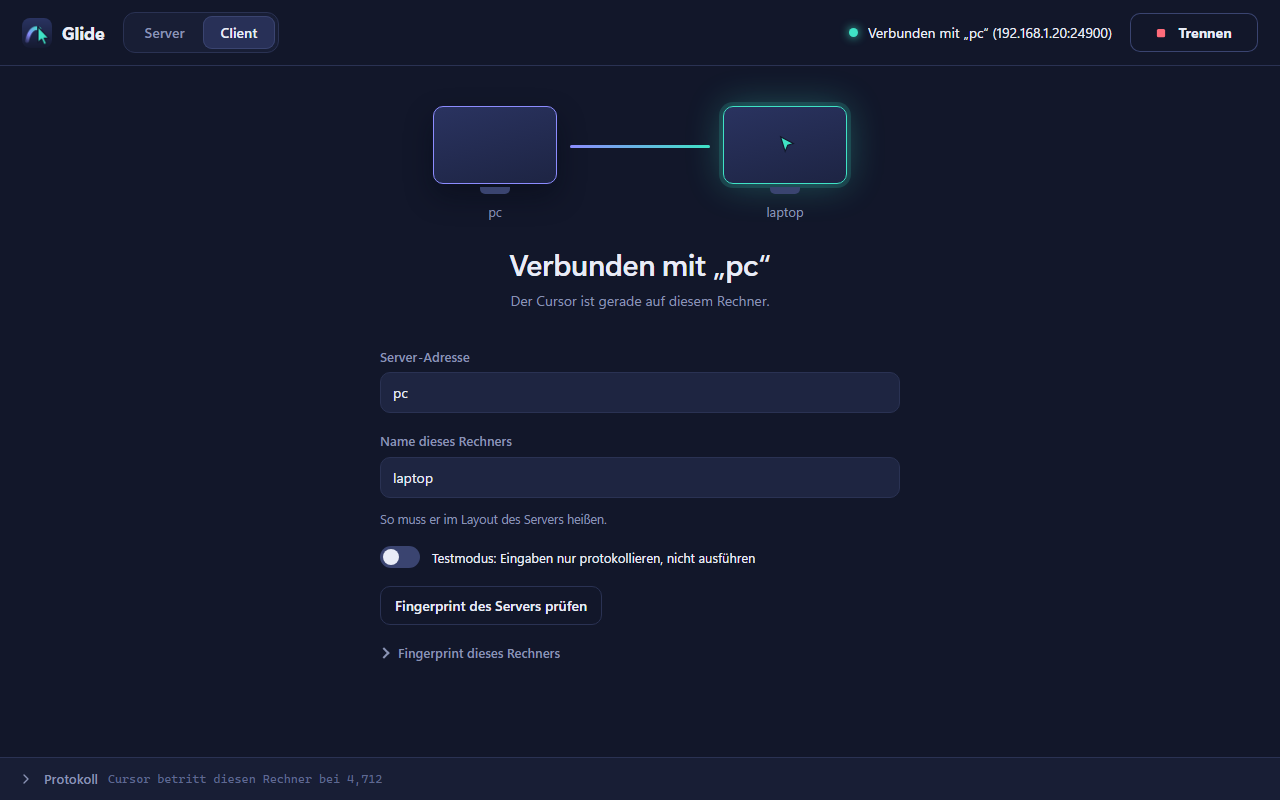
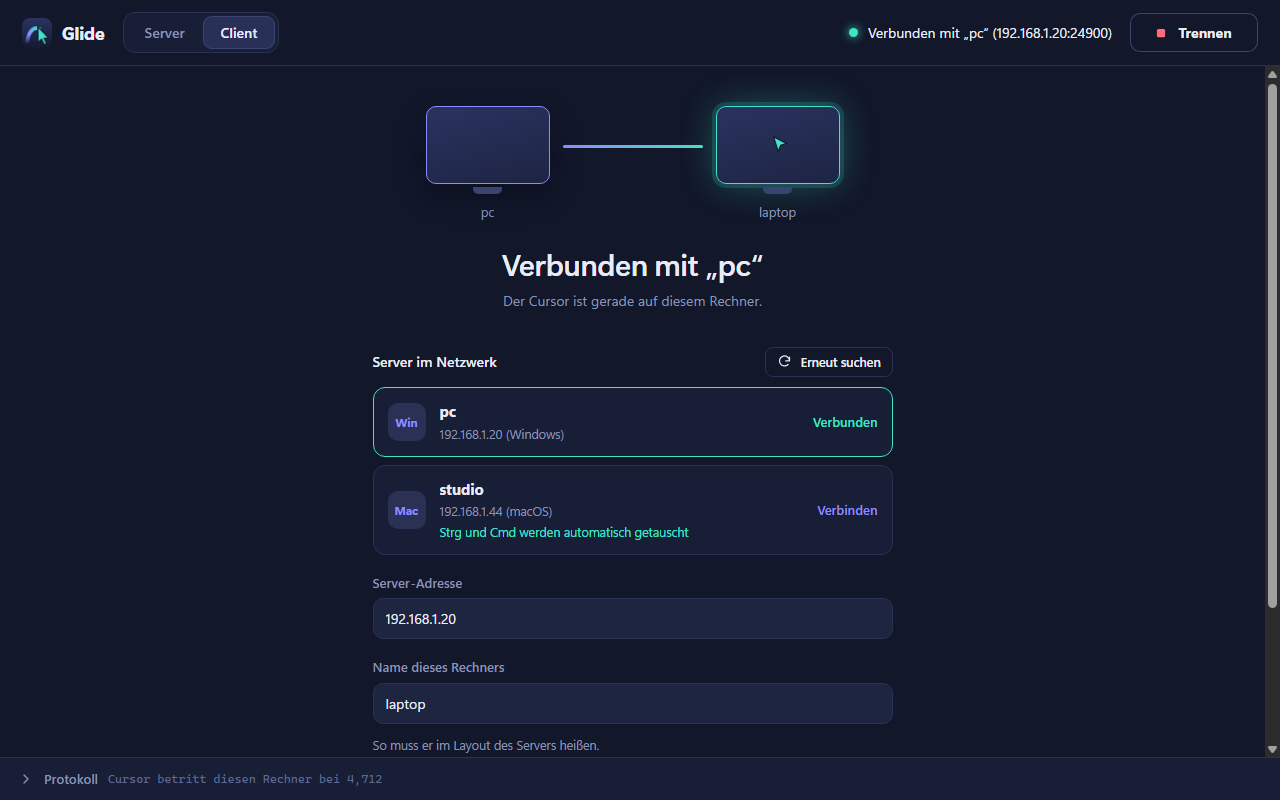
LAN-Suche wählt die beste Adresse, GUI zeigt gefundene Server
- discovery: antwortet ein Server über mehrere Schnittstellen, gewinnt die
  passendste Adresse (192.168/16 und 10/8 vor 172.16/12 von WSL, Hyper-V und
  Docker, dann Link-Local und Loopback)
- GUI: Feinschliff der Serverliste, aktualisierter Client-Screenshot

diff --git a/crates/glide-gui/ui/style.css b/crates/glide-gui/ui/style.css
@@ -611,6 +611,7 @@ select {
 .server-row .info .swap { color: var(--teal); }
 .server-row .info .warn { color: var(--coral); }
 .server-row .go { color: var(--indigo); font-weight: 600; font-size: 13px; white-space: nowrap; }
+.server-row.current .go { color: var(--teal); }
 .server-list .empty { color: var(--muted); font-size: 13px; padding: 4px 2px; }
 
 /* ------------------------------------------------------------ Protokoll */

diff --git a/crates/glide-net/src/discovery.rs b/crates/glide-net/src/discovery.rs
@@ -88,16 +88,16 @@ async fn discover_on(wait: Duration, port: u16, lan: bool) -> Result<Vec<Discove
     }
     drop(tx);
 
-    // Je Server (Fingerprint) eine Adresse; LAN-Adressen vor Loopback bevorzugen
+    // Je Server (Fingerprint) die passendste Adresse – er antwortet über jede Schnittstelle
     let mut found: BTreeMap<String, DiscoveredServer> = BTreeMap::new();
     let deadline = tokio::time::sleep(wait);
     tokio::pin!(deadline);
     loop {
         tokio::select! {
             Some(server) = rx.recv() => {
-                let better = found.get(&server.fingerprint).is_none_or(|known| {
-                    is_loopback(known.addr.ip()) && !is_loopback(server.addr.ip())
-                });
+                let better = found
+                    .get(&server.fingerprint)
+                    .is_none_or(|known| address_rank(server.addr.ip()) > address_rank(known.addr.ip()));
                 if better {
                     found.insert(server.fingerprint.clone(), server);
                 }
@@ -111,13 +111,33 @@ async fn discover_on(wait: Duration, port: u16, lan: bool) -> Result<Vec<Discove
     Ok(found.into_values().collect())
 }
 
-fn is_loopback(ip: IpAddr) -> bool {
-    ip.is_loopback()
+/// Wie gut sich eine Adresse für die Verbindung eignet: echte LAN-Netze vor typischen virtuellen
+/// Adaptern (WSL, Hyper-V und Docker nutzen meist 172.16.0.0/12), Link-Local und Loopback zuletzt.
+fn address_rank(ip: IpAddr) -> u8 {
+    let IpAddr::V4(v4) = ip else { return 1 };
+    let [a, b, ..] = v4.octets();
+    match (a, b) {
+        _ if v4.is_loopback() => 0,
+        _ if v4.is_link_local() => 1,
+        (172, 16..=31) => 2,
+        (192, 168) | (10, _) => 4,
+        _ => 3,
+    }
 }
 
 #[cfg(test)]
 mod tests {
     use super::*;
+
+    #[test]
+    fn lan_addresses_win_over_virtual_adapters() {
+        let rank = |s: &str| address_rank(s.parse().unwrap());
+        assert!(rank("192.168.10.7") > rank("172.28.240.1"), "LAN vor WSL/Hyper-V");
+        assert!(rank("10.0.0.5") > rank("172.17.0.1"), "LAN vor Docker");
+        assert!(rank("172.28.240.1") > rank("169.254.3.4"));
+        assert!(rank("169.254.3.4") > rank("127.0.0.1"));
+        assert!(rank("192.168.1.2") > rank("8.8.8.8"));
+    }
 
     #[tokio::test]
     async fn server_is_found_via_loopback() {

diff --git a/README.md b/README.md
@@ -17,7 +17,7 @@ die Bildschirmkante, ohne dass Maus und Tastatur ins Stocken geraten.
 
 <table>
   <tr>
-    <td align="center"><img src="docs/assets/screenshots/client.png" alt="Client verbunden, Cursor auf diesem Rechner"><br><sub>Client: verbunden, der Cursor ist gerade hier</sub></td>
+    <td align="center"><img src="docs/assets/screenshots/client.png" alt="Client mit gefundenen Servern im Netzwerk"><br><sub>Client: Server im Netzwerk finden und mit einem Klick verbinden</sub></td>
     <td align="center"><img src="docs/assets/screenshots/freigabe.png" alt="Freigabe-Dialog mit Fingerprint"><br><sub>Neuer Rechner: Freigabe erst nach Fingerprint-Vergleich</sub></td>
   </tr>
 </table>
